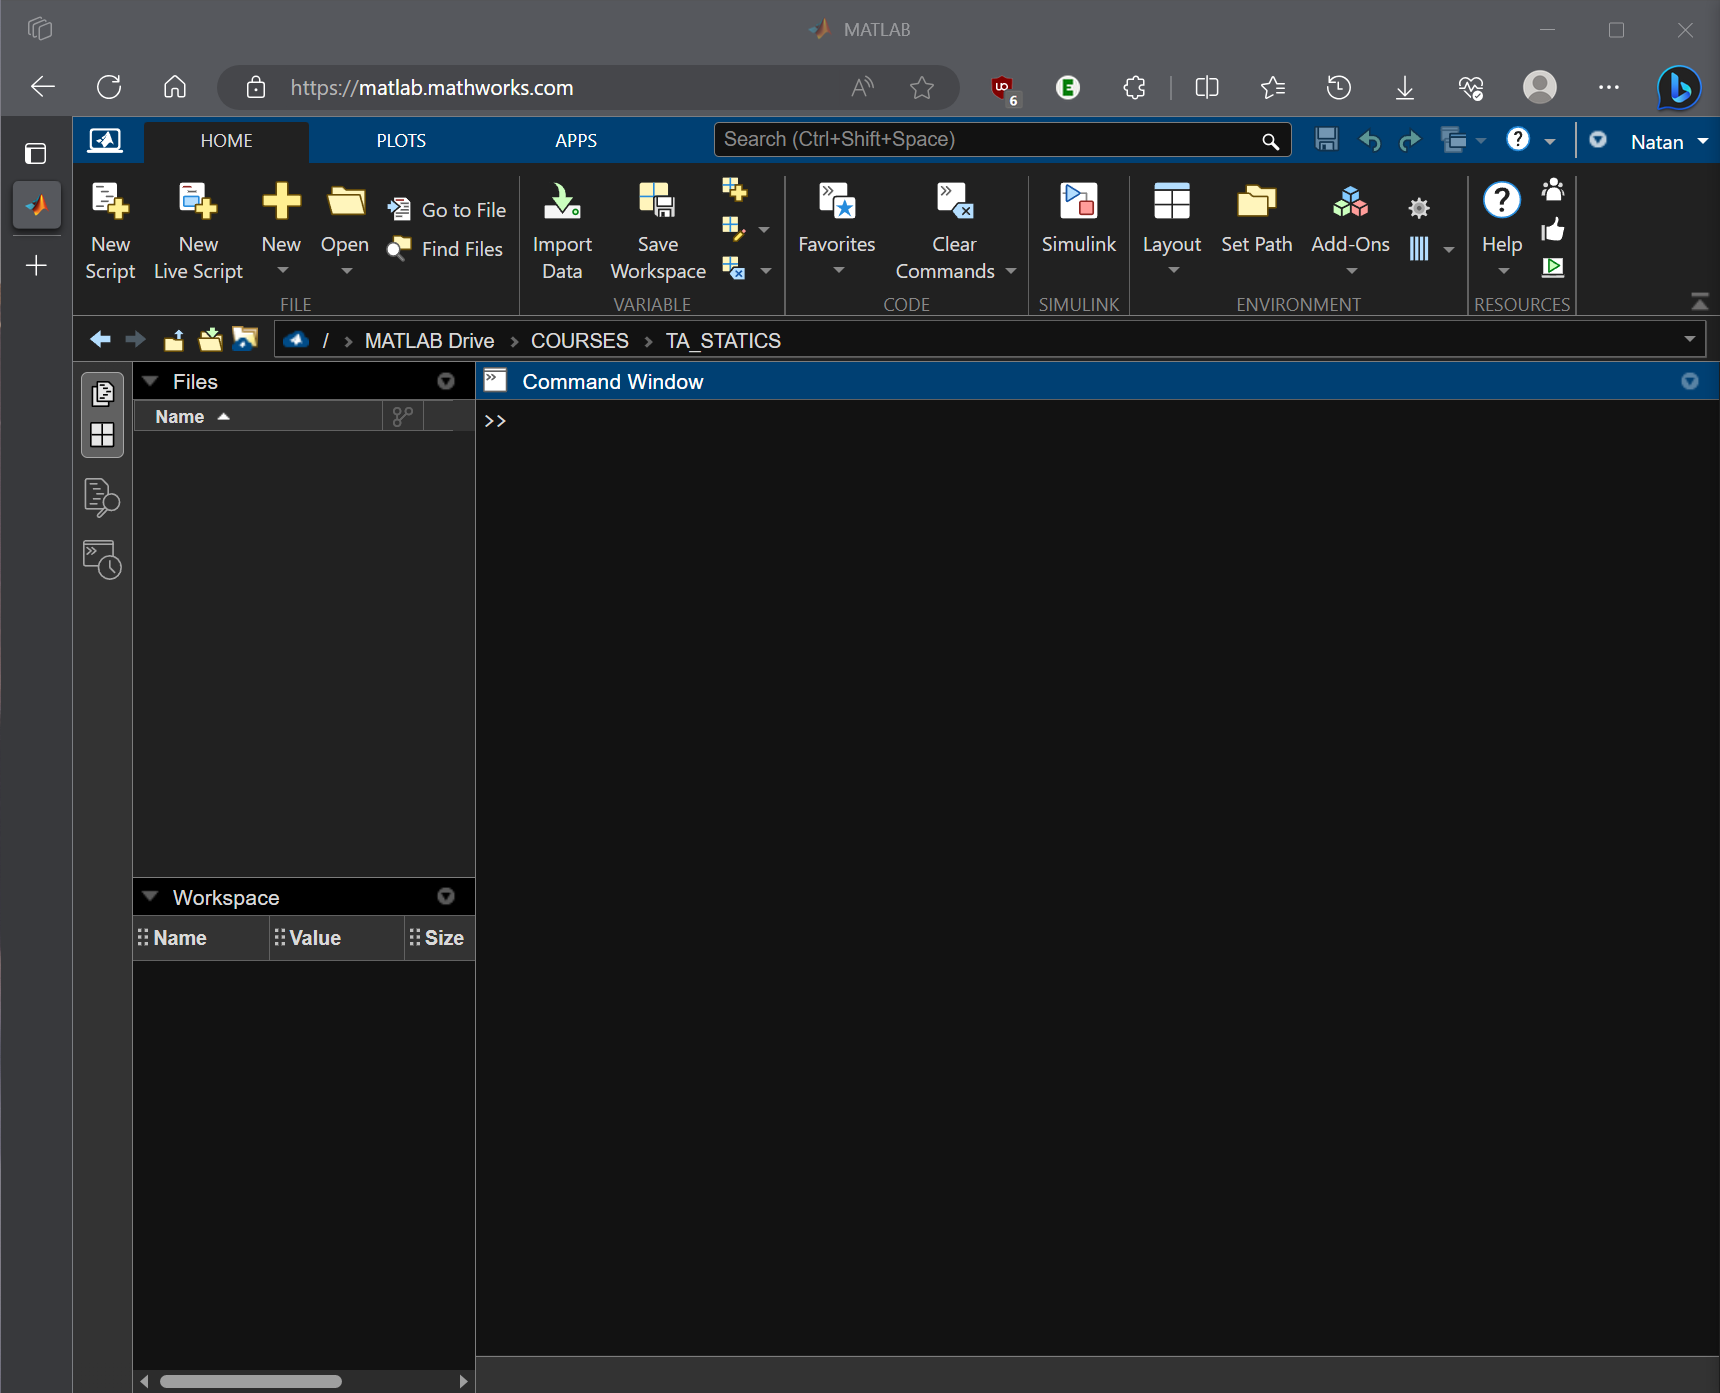
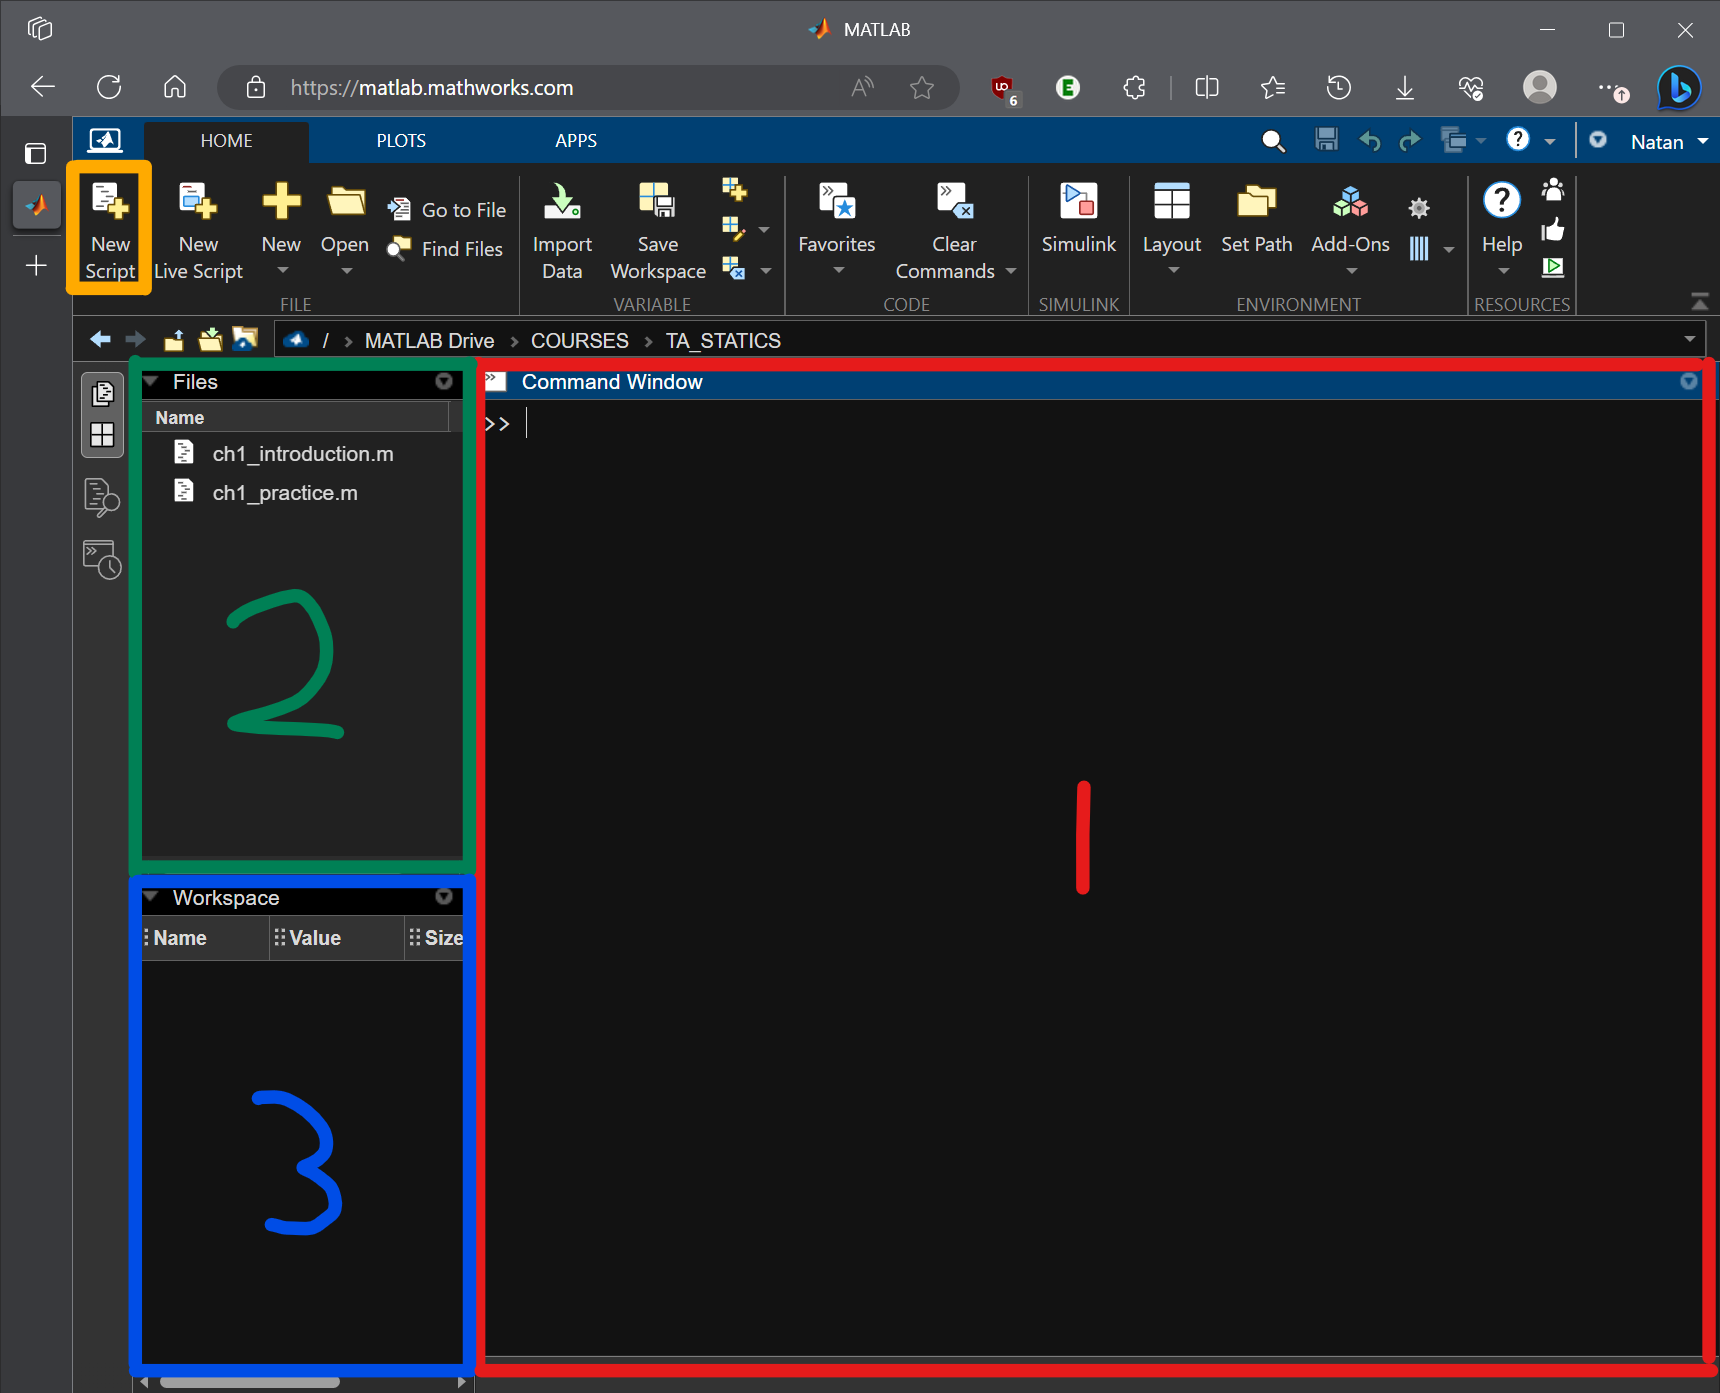
building out ch1 better and slight renaming

diff --git a/CHAPTER-5/ch5_example.m b/CHAPTER-5/ch5_example.m
@@ -1,22 +1,3 @@
-clear all % this statement clears all variables from the workspace
-close all % this statement closes all figures
-clc % this statement clears the command window
-
-% This is an introductory script to review basic MATLAB functionality
-
-%% HELLO WORLD
-
-% Using the fprintf() function, let's print "Hello World"
-fprintf("Hello World\n") % NOTE: the '\n' is the sequence for a new line
-
-% Now let's do the same thing, but with a variable declaration instead
-message = "Hello World\n";
-fprintf(message)
-
-% This way, we can redefine the variable 'message' and just reprint it
-message = "New Message\n";
-fprintf(message)
-
 %% BASIC LOOPING
 
 % In solving problems, it is common to repeat the same operation over and

diff --git a/CHAPTER-1/ch1_example.m b/CHAPTER-1/ch1_example.m
@@ -1,0 +1,18 @@
+clear all % this statement clears all variables from the workspace
+close all % this statement closes all figures
+clc % this statement clears the command window
+
+% This is an introductory script to review basic MATLAB functionality
+
+%% HELLO WORLD
+
+% Using the fprintf() function, let's print "Hello World"
+fprintf("Hello World\n") % NOTE: the '\n' is the sequence for a new line
+
+% Now let's do the same thing, but with a variable declaration instead
+message = "Hello World\n";
+fprintf(message)
+
+% This way, we can redefine the variable 'message' and just reprint it
+message = "New Message\n";
+fprintf(message)

diff --git a/CHAPTER-1/ch1_practice.m b/CHAPTER-1/ch1_practice.m
@@ -1,4 +1,4 @@
-% Practicing conditionals and looping
+% Practicing basic applications
 
 %% --------------- STEP 1 --------------- %%
 % [] Define any two variables, choose a mathematical operation 

diff --git a/CHAPTER-1/ch1_plan.md b/CHAPTER-1/ch1_plan.md
@@ -9,7 +9,7 @@
     - We won't be doing anything intense enough to warrant the potential advantages of the desktop client
     - Files are stored in your MATLAB Drive, so they can be accessed anywhere
 - Download the [Desktop Client](https://software.pitt.edu/Home/SoftwareSearch?SearchText=Matlab&PlatformId=0)
-    - <img src="../images/sds-matlab-results.png" alt="search results" width="500" />
+    - <img src="../images/sds-matlab-results.png" alt="search results"/>
     - This link takes you to Pitt's Software Download Service, where it provides instructions for installation *be sure to click into the correct one for your computer (windows, mac, or linux)*
     - The desktop client is a pretty beefy application, so make sure you have enough storage
     - Unlike the web-based client, this will run on your local machine and will therefore use up some amount of processing power and memory while you're in MATLAB
@@ -22,20 +22,15 @@ For the purposes of this course supplementary material, my instructions will cor
 
 The MATLAB environment may be slightly intimidating if you are opening it for the first time, or if you just did not feel very comfortable with it during your previous courses. That's okay! We will be ignoring most of the buttons in the ribbon at the top and I'm going to quickly walk through the bigger sections underneath it.
 
-<img src="../images/initial-matlab-environment.png" alt="initial MATLAB environment" width="500" />
+<img src="../images/initial-matlab-environment.png" alt="initial MATLAB environment"/>
 
-There are 4 general sections that will matter to us, 1 of which is currently hidden and we will get to shortly. You can see `Files`, `Workspace`, and `Command Window`.
+There are 4 general sections that will matter to us, 1 of which is currently hidden and we will get to shortly. You can see `Command Window` (1), `Files` (2), and `Workspace` (3).
 
 As you may imagine, the scripts that you write over time will show up in `Files`. `Workspace` houses any variables that get defined in your scripts. As you look through my examples, you can see that several things are listed there. And the `Command Window` is one place where you can write MATLAB code, but it is also the ouptut window for your scripts. We will be writing scripts.
 
-So, let's click on the `New Script` button in the top left. This will create a blank, unnamed script. You can save (Ctrl + s) and name it. Now we can write some code (refer to example script)
+So, let's click on the `New Script` button in the top left. This will create a blank, unnamed script. You can save (Ctrl + s) and name it. Your interface will look similar to the following:
 
-## Understand basic conditional looping
+<img src="../images/matlab-environment-with-new-script.png" alt="MATLAB environment with the scripting window"/>
 
-Conditionals are an integral part of coding, but even more importantly, they're an integral part of being an engineer. Our job is pretty much entirely about making decisions based on the information we're given. `If this, then that`.
+Now we can write some code (refer to example script: `ch1_example.m`)
 
-In MATLAB, we can use `if` statements to check whether something is true or false and then to make a decision based on the result.
-
-But an `if` statement on its own might not be enough. You're designing a bridge that has to be strong enough without going over budget. That probably means going through several different designs. You have to repeat the same task a couple times, then "ask" if the new design is satisfactory. That's a loop!
-
-In MATLAB, we have two types of loops: `for` and `while`. When we know exactly how many times to perform an operation, `for` loops are our best friend. They're pretty simple to use. But as engineers, we usually don't know things like that ahead of time. In that case, `while` loops are super awesome. Check out the example to see how they're both used!

diff --git a/CHAPTER-2/ch2_overview.md b/CHAPTER-2/ch2_overview.md
@@ -11,4 +11,6 @@
 ### MATLAB Parallel Objectives
 - Vectors in MATLAB
 - Vector operations: addition, subtraction, scalar product (dot product)
-- Vectorized algorithms in MATLAB
+- Vector normalization, unit vectors
+- Basic vectorized algorithms in MATLAB
+- Trig (degrees vs radians)
